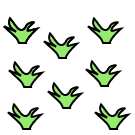
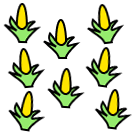
added blueberries, dead textures for corn

diff --git a/core/src/com/kacstudios/game/inventoryItems/BlueberriesPlantItem.java b/core/src/com/kacstudios/game/inventoryItems/BlueberriesPlantItem.java
@@ -1,0 +1,34 @@
+package com.kacstudios.game.inventoryItems;
+
+import com.kacstudios.game.grid.plants.BlueberriesPlant;
+import com.kacstudios.game.overlays.hud.ItemButton;
+import com.kacstudios.game.utilities.GridClickEvent;
+
+public class BlueberriesPlantItem extends IInventoryItem {
+    public BlueberriesPlantItem(){
+        setTexturePath("items/blueberries.png");
+    }
+
+    public BlueberriesPlantItem(int amount){
+        this();
+        setAmount(amount);
+    }
+
+    @Override
+    public void onDeployment(GridClickEvent event, ItemButton parent) {
+
+        if(!event.farmerWithinRadius(300)) return; // must be within 300 pixels
+        if(event.getGridSquare() == null) {
+            event.setSquare(new BlueberriesPlant());
+            int amount = getAmount();
+            amount--;
+            setAmount(amount >= 0 ? amount : 0);
+
+            if(amount == 0){ // amount of -1 signifies unlimited
+                parent.setItem(null); // remove from button
+            }
+
+            parent.checkItem(); // update button display amount
+        }
+    }
+}

diff --git a/core/src/com/kacstudios/game/screens/LevelScreen.java b/core/src/com/kacstudios/game/screens/LevelScreen.java
@@ -40,7 +40,8 @@ public class LevelScreen extends BaseScreen {
                 new CornPlantItem(15),
                 new WateringCanItem(3),
                 new BasicTractorItem(40),
-                new PesticideItem(5)
+                new PesticideItem(5),
+                new BlueberriesPlantItem(5)
         };
         TimeEngine.Init();
         pauseWindow = new PauseWindow(this);

diff --git a/core/src/com/kacstudios/game/grid/plants/CornPlant.java b/core/src/com/kacstudios/game/grid/plants/CornPlant.java
@@ -4,7 +4,7 @@ import com.badlogic.gdx.scenes.scene2d.Stage;
 
 public class CornPlant extends Plant {
     public CornPlant() {
-        super(new String[]{"grid_blank.png","corn-1.png", "corn-2.png", "corn-3.png", "corn-4.png"},
+        super(new String[]{"grid_blank.png","corn-1.png", "corn-2.png", "corn-3.png"},
                 "corn-dead.png");
         setGrowthTime(20l);
     }

diff --git a/core/src/com/kacstudios/game/grid/plants/BlueberriesPlant.java b/core/src/com/kacstudios/game/grid/plants/BlueberriesPlant.java
@@ -1,0 +1,9 @@
+package com.kacstudios.game.grid.plants;
+
+public class BlueberriesPlant extends Plant {
+    public BlueberriesPlant() {
+        super(new String[]{"grid_blank.png","blueberries-1.png", "blueberries-2.png", "blueberries-3.png"},
+                "blueberries-dead.png");
+        setGrowthTime(20l);
+    }
+}
